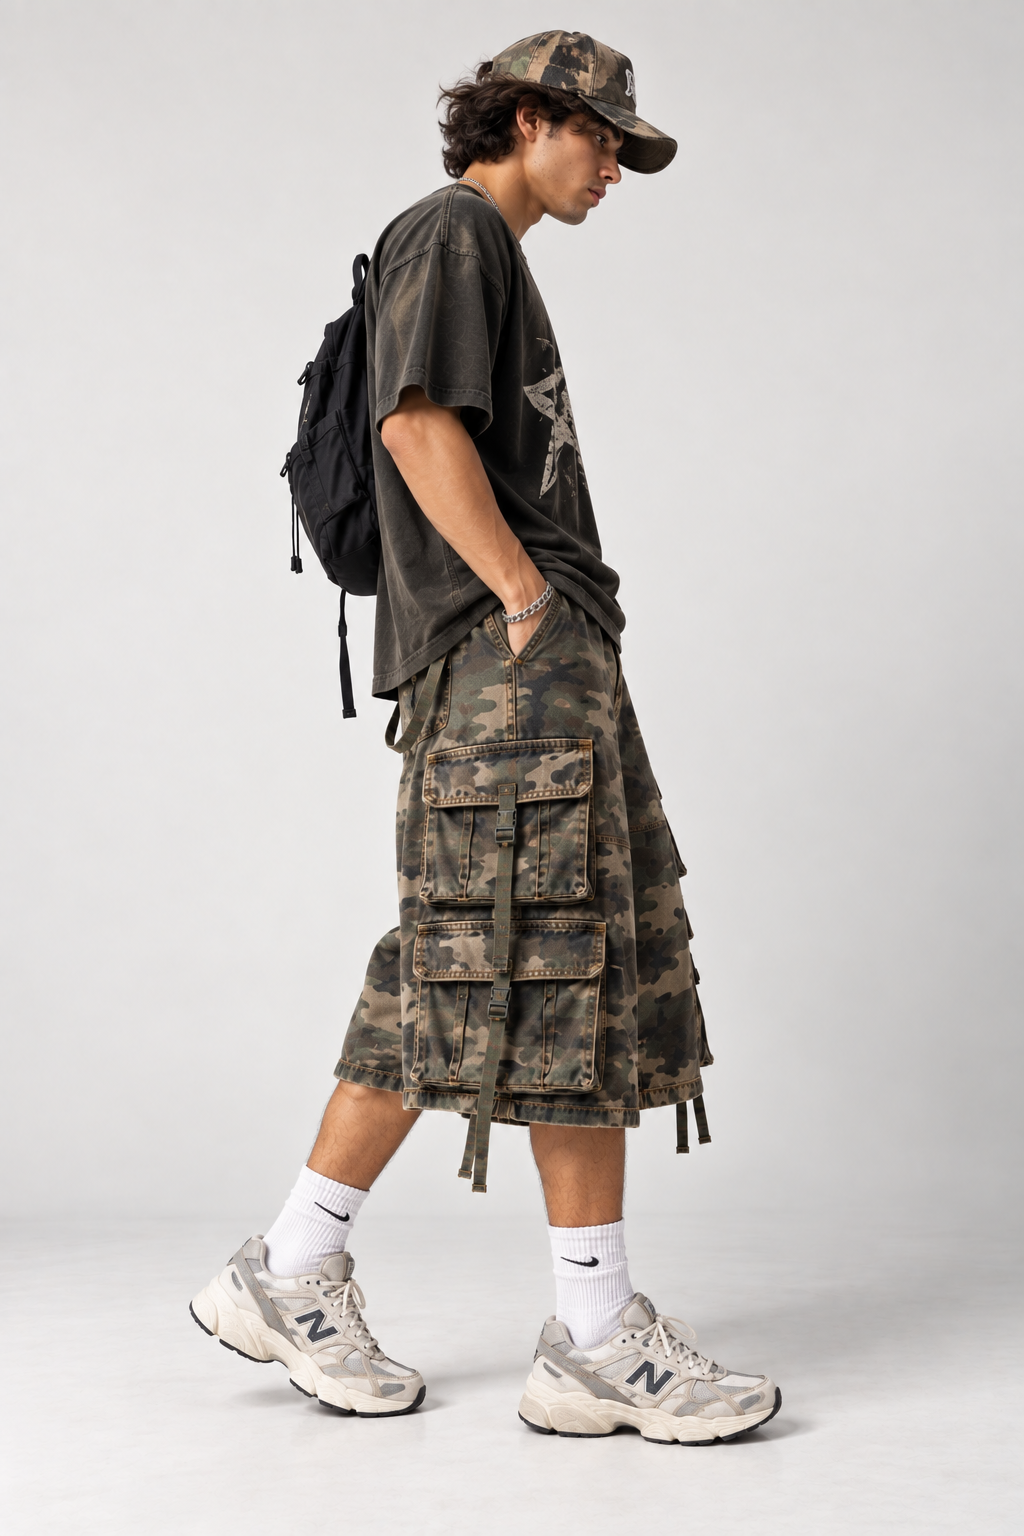
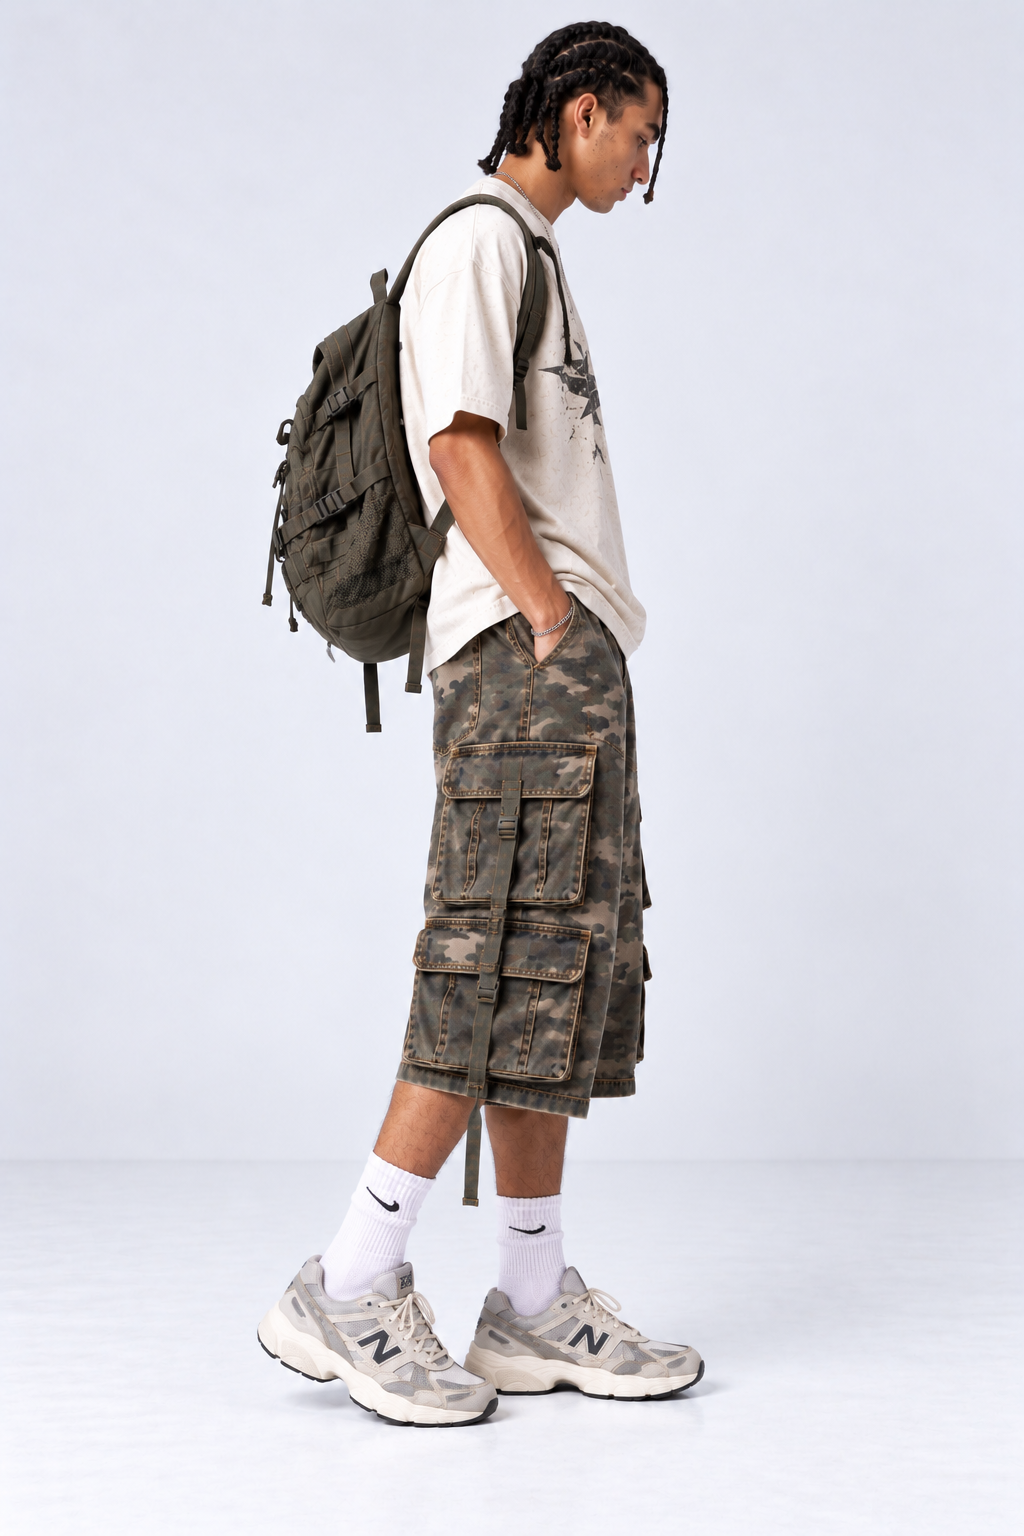
Refresh Military Wide-Leg Cargo Shorts with new editorial studio shots (v2 filenames); bump cache v80

diff --git a/js/data.js b/js/data.js
@@ -60,7 +60,7 @@ const PRODUCTS = [
   /* ---- Shorts collection (real photography, verified logo-free) ---- */
   {id:"rl-sp260310pmh6", name:"Light Wash Distressed Denim Shorts", cat:"Shorts", price:70, was:0, color:"Light Wash", tag:"BEST SELLER", rating:4.7, reviews:88, sizes:["S","M","L","XL","XXL"], oos:["S","XXL"], photos:["rl-sp260310pmh6-front2.jpg","rl-sp260310pmh6-side2.jpg","rl-sp260310pmh6-back2.jpg","rl-sp260310pmh6-detail2.jpg"], story:["The Light Wash Distressed Denim Shorts take a relaxed wide-leg jort and push it into full streetwear territory, cut long and loose for an easy, lived-in drape. A bright light wash and all-over crackle give them a sun-faded look straight off the rack.","Heavy hand-finished rips run across the front and open into an irregular frayed hem that keeps fraying with every wear. Classic five-pocket construction, antique rivets and a signature Reserved LA woven tab finish a pair built to look better the more you beat them up."], model:"Model is 185cm / 6ft 1in, 75kg / 165lbs, 31-inch waist — wears size M", features:["Relaxed wide-leg fit","Falls below the knee","Heavy distressing and blown-out rips","Raw, irregular frayed hem","Five-pocket styling with antique rivets","Reserved LA woven tab at back pocket","100% cotton denim"], desc:"Loose wide-leg denim jorts in a light wash, finished with heavy rips and an irregular frayed hem for real streetwear grit."},
   {id:"rl-sp26061297av", name:"Camo 3/4 Cargo Shorts", cat:"Shorts", price:86, was:0, color:"Green Camo", tag:"NEW", rating:4.8, reviews:42, sizes:["S","M","L","XL"], oos:[], photos:["rl-sp26061297av-front2.jpg","rl-sp26061297av-side2.jpg","rl-sp26061297av-back2.jpg","rl-sp26061297av-detail2.jpg"], story:["Cut in a longer 3/4 length, the Camo 3/4 Cargo Shorts sit right at the shin for that oversized, early-2000s utility silhouette. A soft washed camo print with tonal contrast stitching keeps them looking broken-in from day one.","Bellowed flap cargo pockets ride each leg for real storage, reinforced with bar-tack stitching at every stress point. Cut from durable cotton ripstop with a relaxed straight leg, they layer effortlessly over any sneaker."], model:"Model is 185cm / 6ft 1in, 75kg / 165lbs, 31-inch waist — wears size M", features:["Relaxed straight fit","Longer 3/4 length","Bellowed flap cargo pockets","Bar-tack reinforced stress points","Washed camo print","Reserved LA woven tab","100% cotton ripstop"], desc:"Cotton ripstop camo cargos in a longer 3/4 length. Relaxed straight fit, reinforced flap pockets, and bar-tack stitching at the stress points."},
-  {id:"rl-sp260616fa60", name:"Military Wide-Leg Cargo Shorts", cat:"Shorts", price:92, was:0, color:"Washed Camo", tag:"NEW", rating:4.8, reviews:61, sizes:["S","M","L","XL","XXL"], oos:["XXL"], photos:["rl-sp260616fa60-front.jpg","rl-sp260616fa60-side.jpg","rl-sp260616fa60-back.jpg","rl-sp260616fa60-detail.jpg"], story:["The Military Wide-Leg Cargo Shorts are our most dramatic short yet — cut wide and long with true volume through the leg for a runway-ready, utilitarian shape. A vintage camo wash with rust-toned overdye gives every pair a weathered, one-of-one feel.","Stacked utility pockets, webbing straps and buckle hardware bring genuine military detailing, while adjustable leg tabs let you tune the drape. Built from heavy washed cotton that holds its structure and softens with wear."], model:"Model is 185cm / 6ft 1in, 75kg / 165lbs, 31-inch waist — wears size M", features:["Wide-leg volume fit","Long, below-knee length","Stacked cargo and utility pockets","Webbing straps with buckle hardware","Adjustable leg tabs","Vintage camo overdye wash","100% heavy cotton"], desc:"Wide-leg military cargos in a vintage-washed camo, cut long and roomy with stacked utility pockets, webbing straps and buckle detailing. A dramatic, runway-ready short."},
+  {id:"rl-sp260616fa60", name:"Military Wide-Leg Cargo Shorts", cat:"Shorts", price:92, was:0, color:"Washed Camo", tag:"NEW", rating:4.8, reviews:61, sizes:["S","M","L","XL","XXL"], oos:["XXL"], photos:["rl-sp260616fa60-front2.jpg","rl-sp260616fa60-side2.jpg","rl-sp260616fa60-back2.jpg","rl-sp260616fa60-detail2.jpg"], story:["The Military Wide-Leg Cargo Shorts are our most dramatic short yet — cut wide and long with true volume through the leg for a runway-ready, utilitarian shape. A vintage camo wash with rust-toned overdye gives every pair a weathered, one-of-one feel.","Stacked utility pockets, webbing straps and buckle hardware bring genuine military detailing, while adjustable leg tabs let you tune the drape. Built from heavy washed cotton that holds its structure and softens with wear."], model:"Model is 185cm / 6ft 1in, 75kg / 165lbs, 31-inch waist — wears size M", features:["Wide-leg volume fit","Long, below-knee length","Stacked cargo and utility pockets","Webbing straps with buckle hardware","Adjustable leg tabs","Vintage camo overdye wash","100% heavy cotton"], desc:"Wide-leg military cargos in a vintage-washed camo, cut long and roomy with stacked utility pockets, webbing straps and buckle detailing. A dramatic, runway-ready short."},
   {id:"rl-sp260602ah0q", name:"Cargo Multi-Pocket Denim Jorts", cat:"Shorts", price:72, was:88, color:"Washed Denim", tag:"SALE", rating:4.6, reviews:64, sizes:["M","L","XL","XXL"], oos:["M"], photos:["rl-sp260602ah0q-front.jpg","rl-sp260602ah0q-side.jpg","rl-sp260602ah0q-back.jpg","rl-sp260602ah0q-detail.jpg"], story:["Part cargo, part jort — the Cargo Multi-Pocket Denim Jorts combine a wide denim base with utility pockets stacked down each leg. A mid washed indigo keeps them versatile enough to anchor any fit.","Flap cargo pockets, coin pockets and classic five-pocket denim styling give you storage from every angle, all reinforced with sturdy rivets. A frayed cut hem adds the finishing streetwear edge."], model:"Model is 185cm / 6ft 1in, 75kg / 165lbs, 31-inch waist — wears size M", features:["Relaxed wide fit","Below-knee length","Stacked flap cargo pockets","Five-pocket denim construction","Reinforced rivets","Frayed cut hem","100% cotton denim"], desc:"Cotton denim cargo jorts with a soft wash, wide-leg silhouette, raw hem, and a reinforced multi-pocket layout. Utility with an attitude."},
   {id:"rl-sp260514qcbq", name:"Industrial Cargo Shorts", cat:"Shorts", price:116, was:0, color:"Washed Brown", tag:"", rating:4.9, reviews:37, sizes:["M","L","XL","XXL"], oos:["M"], photos:["rl-sp260514qcbq-front.jpg","rl-sp260514qcbq-side.jpg","rl-sp260514qcbq-back.jpg","rl-sp260514qcbq-detail.jpg"], story:["The Industrial Cargo Shorts are our most technical short yet, built on a washed-brown canvas with contrast black mesh panels and a full rig of straps, buckles and D-rings. Rust-toned overdye and heavy topstitching give every pair a weathered, one-of-one feel.","Stacked 3D cargo pockets, webbing straps, metal eyelets and adjustable buckle hardware make them as functional as they are aggressive — genuine utility with a runway edge. Cut from a heavy washed cotton canvas with mesh inserts and a relaxed straight leg."], model:"Model is 185cm / 6ft 1in, 75kg / 165lbs, 31-inch waist — wears size M", features:["Relaxed straight fit","Washed-brown canvas with black mesh panels","Stacked 3D cargo pockets","Webbing straps with buckle hardware","Metal eyelets and D-rings","Rust-toned overdye wash","Heavy washed cotton canvas"], desc:"Heavy washed-canvas cargo shorts with 3D utility pockets, mesh panels, and a full rig of straps and buckle hardware. A premium, hard-edged statement."},
   {id:"rl-sp2607079rsc", name:"Drawstring Distressed Shorts", cat:"Shorts", price:82, was:0, color:"Washed Brown", tag:"", rating:4.7, reviews:49, sizes:["S","M","L","XL","XXL"], oos:["S"], photos:["rl-sp2607079rsc-front.jpg","rl-sp2607079rsc-side.jpg","rl-sp2607079rsc-back.jpg","rl-sp2607079rsc-detail.jpg"], story:["The Drawstring Distressed Shorts blend rugged utility with an easy drawcord waist, built on a washed-brown canvas with rust-toned overdye and heavy hand-thrashed distressing. Blown-out rips and a cracked wash give every pair a genuinely worn-in, one-of-one look.","Cargo flap pockets, webbing straps, buckle hardware and metal eyelets stack down each leg for real function and attitude, while the elasticated drawcord waist keeps them comfortable. Cut from a heavy washed cotton canvas with a relaxed, roomy leg."], model:"Model is 185cm / 6ft 1in, 75kg / 165lbs, 31-inch waist — wears size M", features:["Relaxed roomy fit","Elasticated drawcord waist","Washed-brown canvas with rust overdye","Heavy hand-thrashed rips","Cargo flap pockets with buckle straps","Metal eyelets and D-rings","Heavy washed cotton canvas"], desc:"Heavy washed-canvas drawstring shorts with blown-out distressing, cargo pockets, and buckle-strap hardware. Rugged utility with a lived-in, premium finish."},

diff --git a/shop.html b/shop.html
@@ -10,7 +10,7 @@
 <link href="https://fonts.googleapis.com/css2?family=Anton&family=Inter:wght@400;500;600;700&display=swap" rel="stylesheet">
   <link rel="icon" type="image/png" href="assets/favicon.png">
   <link rel="apple-touch-icon" href="assets/favicon.png">
-<link rel="stylesheet" href="styles.css?v=79">
+<link rel="stylesheet" href="styles.css?v=80">
 </head>
 <body>
 <div id="announce-slot"></div>
@@ -41,9 +41,9 @@
 </main>
 
 <div id="footer-slot"></div>
-<script src="js/data.js?v=79"></script>
-<script src="js/site.js?v=79"></script>
-<script src="js/shop.js?v=79"></script>
+<script src="js/data.js?v=80"></script>
+<script src="js/site.js?v=80"></script>
+<script src="js/shop.js?v=80"></script>
 <script>mountChrome("shop"); initShop();</script>
 </body>
 </html>

diff --git a/product.html b/product.html
@@ -10,7 +10,7 @@
 <link href="https://fonts.googleapis.com/css2?family=Anton&family=Inter:wght@400;500;600;700&display=swap" rel="stylesheet">
   <link rel="icon" type="image/png" href="assets/favicon.png">
   <link rel="apple-touch-icon" href="assets/favicon.png">
-<link rel="stylesheet" href="styles.css?v=79">
+<link rel="stylesheet" href="styles.css?v=80">
 </head>
 <body>
 <div id="announce-slot"></div>
@@ -25,9 +25,9 @@
 </main>
 
 <div id="footer-slot"></div>
-<script src="js/data.js?v=79"></script>
-<script src="js/site.js?v=79"></script>
-<script src="js/shop.js?v=79"></script>
+<script src="js/data.js?v=80"></script>
+<script src="js/site.js?v=80"></script>
+<script src="js/shop.js?v=80"></script>
 <script>mountChrome(""); initProduct();</script>
 </body>
 </html>

diff --git a/track-order.html b/track-order.html
@@ -10,7 +10,7 @@
 <link href="https://fonts.googleapis.com/css2?family=Anton&family=Inter:wght@400;500;600;700&display=swap" rel="stylesheet">
   <link rel="icon" type="image/png" href="assets/favicon.png">
   <link rel="apple-touch-icon" href="assets/favicon.png">
-<link rel="stylesheet" href="styles.css?v=79">
+<link rel="stylesheet" href="styles.css?v=80">
 </head>
 <body>
 <div id="announce-slot"></div>
@@ -31,8 +31,8 @@
 </main>
 
 <div id="footer-slot"></div>
-<script src="js/data.js?v=79"></script>
-<script src="js/site.js?v=79"></script>
+<script src="js/data.js?v=80"></script>
+<script src="js/site.js?v=80"></script>
 <script>
   mountChrome("");
   function trackSubmit(e){ e.preventDefault(); toast("We've emailed your latest tracking details."); return false; }

diff --git a/index.html b/index.html
@@ -20,7 +20,7 @@
 <link href="https://fonts.googleapis.com/css2?family=Anton&family=Inter:wght@400;500;600;700&display=swap" rel="stylesheet">
   <link rel="icon" type="image/png" href="assets/favicon.png">
   <link rel="apple-touch-icon" href="assets/favicon.png">
-<link rel="stylesheet" href="styles.css?v=79">
+<link rel="stylesheet" href="styles.css?v=80">
 </head>
 <body>
 <div id="announce-slot"></div>
@@ -181,9 +181,9 @@
 
 <div id="footer-slot"></div>
 
-<script src="js/data.js?v=79"></script>
-<script src="js/site.js?v=79"></script>
-<script src="js/shop.js?v=79"></script>
+<script src="js/data.js?v=80"></script>
+<script src="js/site.js?v=80"></script>
+<script src="js/shop.js?v=80"></script>
 <script>
   mountChrome("home");
 

diff --git a/contact.html b/contact.html
@@ -10,7 +10,7 @@
 <link href="https://fonts.googleapis.com/css2?family=Anton&family=Inter:wght@400;500;600;700&display=swap" rel="stylesheet">
   <link rel="icon" type="image/png" href="assets/favicon.png">
   <link rel="apple-touch-icon" href="assets/favicon.png">
-<link rel="stylesheet" href="styles.css?v=79">
+<link rel="stylesheet" href="styles.css?v=80">
 </head>
 <body>
 <div id="announce-slot"></div>
@@ -72,8 +72,8 @@
 </main>
 
 <div id="footer-slot"></div>
-<script src="js/data.js?v=79"></script>
-<script src="js/site.js?v=79"></script>
+<script src="js/data.js?v=80"></script>
+<script src="js/site.js?v=80"></script>
 <script>
   mountChrome("contact");
   document.getElementById("cPhone").innerHTML = BRAND.phone;

diff --git a/about.html b/about.html
@@ -10,7 +10,7 @@
 <link href="https://fonts.googleapis.com/css2?family=Anton&family=Inter:wght@400;500;600;700&display=swap" rel="stylesheet">
   <link rel="icon" type="image/png" href="assets/favicon.png">
   <link rel="apple-touch-icon" href="assets/favicon.png">
-<link rel="stylesheet" href="styles.css?v=79">
+<link rel="stylesheet" href="styles.css?v=80">
 </head>
 <body>
 <div id="announce-slot"></div>
@@ -48,8 +48,8 @@
 </main>
 
 <div id="footer-slot"></div>
-<script src="js/data.js?v=79"></script>
-<script src="js/site.js?v=79"></script>
+<script src="js/data.js?v=80"></script>
+<script src="js/site.js?v=80"></script>
 <script>mountChrome("about");</script>
 </body>
 </html>

diff --git a/business-disclaimer.html b/business-disclaimer.html
@@ -10,7 +10,7 @@
 <link href="https://fonts.googleapis.com/css2?family=Anton&family=Inter:wght@400;500;600;700&display=swap" rel="stylesheet">
   <link rel="icon" type="image/png" href="assets/favicon.png">
   <link rel="apple-touch-icon" href="assets/favicon.png">
-<link rel="stylesheet" href="styles.css?v=79">
+<link rel="stylesheet" href="styles.css?v=80">
 </head>
 <body>
 <div id="announce-slot"></div>
@@ -54,8 +54,8 @@
 </main>
 
 <div id="footer-slot"></div>
-<script src="js/data.js?v=79"></script>
-<script src="js/site.js?v=79"></script>
+<script src="js/data.js?v=80"></script>
+<script src="js/site.js?v=80"></script>
 <script>mountChrome("");</script>
 </body>
 </html>

diff --git a/faq.html b/faq.html
@@ -10,7 +10,7 @@
 <link href="https://fonts.googleapis.com/css2?family=Anton&family=Inter:wght@400;500;600;700&display=swap" rel="stylesheet">
   <link rel="icon" type="image/png" href="assets/favicon.png">
   <link rel="apple-touch-icon" href="assets/favicon.png">
-<link rel="stylesheet" href="styles.css?v=79">
+<link rel="stylesheet" href="styles.css?v=80">
 </head>
 <body>
 <div id="announce-slot"></div>
@@ -54,8 +54,8 @@
 </main>
 
 <div id="footer-slot"></div>
-<script src="js/data.js?v=79"></script>
-<script src="js/site.js?v=79"></script>
+<script src="js/data.js?v=80"></script>
+<script src="js/site.js?v=80"></script>
 <script>mountChrome("");</script>
 </body>
 </html>

diff --git a/privacy-policy.html b/privacy-policy.html
@@ -10,7 +10,7 @@
 <link href="https://fonts.googleapis.com/css2?family=Anton&family=Inter:wght@400;500;600;700&display=swap" rel="stylesheet">
   <link rel="icon" type="image/png" href="assets/favicon.png">
   <link rel="apple-touch-icon" href="assets/favicon.png">
-<link rel="stylesheet" href="styles.css?v=79">
+<link rel="stylesheet" href="styles.css?v=80">
 </head>
 <body>
 <div id="announce-slot"></div>
@@ -89,8 +89,8 @@
 </main>
 
 <div id="footer-slot"></div>
-<script src="js/data.js?v=79"></script>
-<script src="js/site.js?v=79"></script>
+<script src="js/data.js?v=80"></script>
+<script src="js/site.js?v=80"></script>
 <script>mountChrome("");</script>
 </body>
 </html>

diff --git a/refund-policy.html b/refund-policy.html
@@ -10,7 +10,7 @@
 <link href="https://fonts.googleapis.com/css2?family=Anton&family=Inter:wght@400;500;600;700&display=swap" rel="stylesheet">
   <link rel="icon" type="image/png" href="assets/favicon.png">
   <link rel="apple-touch-icon" href="assets/favicon.png">
-<link rel="stylesheet" href="styles.css?v=79">
+<link rel="stylesheet" href="styles.css?v=80">
 </head>
 <body>
 <div id="announce-slot"></div>
@@ -77,8 +77,8 @@
 </main>
 
 <div id="footer-slot"></div>
-<script src="js/data.js?v=79"></script>
-<script src="js/site.js?v=79"></script>
+<script src="js/data.js?v=80"></script>
+<script src="js/site.js?v=80"></script>
 <script>mountChrome("");</script>
 </body>
 </html>

diff --git a/shipping-policy.html b/shipping-policy.html
@@ -10,7 +10,7 @@
 <link href="https://fonts.googleapis.com/css2?family=Anton&family=Inter:wght@400;500;600;700&display=swap" rel="stylesheet">
   <link rel="icon" type="image/png" href="assets/favicon.png">
   <link rel="apple-touch-icon" href="assets/favicon.png">
-<link rel="stylesheet" href="styles.css?v=79">
+<link rel="stylesheet" href="styles.css?v=80">
 </head>
 <body>
 <div id="announce-slot"></div>
@@ -67,8 +67,8 @@
 </main>
 
 <div id="footer-slot"></div>
-<script src="js/data.js?v=79"></script>
-<script src="js/site.js?v=79"></script>
+<script src="js/data.js?v=80"></script>
+<script src="js/site.js?v=80"></script>
 <script>mountChrome("");</script>
 </body>
 </html>
